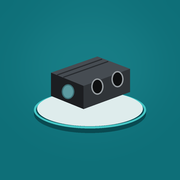
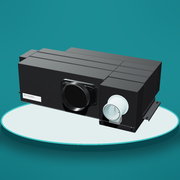
App 封面改用 MD-70LBDN 實際渲染；MD-70LBDN 吊耳改一整排、移除側面小白塊
- App 圖示（含 iPhone 主畫面、Android 自適應圖示）與分享預覽圖（1200×630）改用 MD-70LBDN 3D 渲染
- 加入分享預覽 meta（og:image），傳連結時會顯示封面
- MD-70LBDN 風機側吊耳改為一整條連續吊架（附長圓孔），比照產品照
- 移除風機側端面的小白塊

Claude-Session: https://claude.ai/code/session_016bDArbNA9F9dxaqhLt5yQD

diff --git a/sw.js b/sw.js
@@ -1,6 +1,6 @@
 /* 米多力展示台 service worker — app shell cached on install, CDN (three.js / fonts) cached on first use, works offline afterwards. */
-const VERSION='medole-showroom-f33648478e';
-const SHELL=["./", "data.js", "engine.js", "families.js", "icons/apple-touch-icon.png", "icons/icon-192.png", "icons/icon-32.png", "icons/icon-512.png", "icons/icon-maskable-512.png", "index.html", "manifest.webmanifest", "models/md-100lb.js", "models/md-130lb.js", "models/md-140lb.js", "models/md-210lb.js", "models/md-250lb.js", "models/md-300lbd.js", "models/md-30lb.js", "models/md-35lb-tp.js", "models/md-40lbd.js", "models/md-70lbad.js", "models/md-70lbd.js", "models/md-70lbdn.js", "models/md-a40lb.js"];
+const VERSION='medole-showroom-fbcddf52ca';
+const SHELL=["./", "data.js", "engine.js", "families.js", "icons/apple-touch-icon.png", "icons/cover.png", "icons/icon-192.png", "icons/icon-32.png", "icons/icon-512.png", "icons/icon-maskable-512.png", "index.html", "manifest.webmanifest", "models/md-100lb.js", "models/md-130lb.js", "models/md-140lb.js", "models/md-210lb.js", "models/md-250lb.js", "models/md-300lbd.js", "models/md-30lb.js", "models/md-35lb-tp.js", "models/md-40lbd.js", "models/md-70lbad.js", "models/md-70lbd.js", "models/md-70lbdn.js", "models/md-a40lb.js"];
 const CDN=/^https:\/\/(cdnjs\.cloudflare\.com|fonts\.googleapis\.com|fonts\.gstatic\.com)\//;
 self.addEventListener('install',e=>{e.waitUntil(caches.open(VERSION).then(c=>c.addAll(SHELL.map(u=>new Request(u,{cache:'reload'})))).then(()=>self.skipWaiting()));});
 self.addEventListener('activate',e=>{e.waitUntil(caches.keys().then(keys=>Promise.all(keys.filter(k=>k.startsWith('medole-showroom-')&&k!==VERSION).map(k=>caches.delete(k)))).then(()=>self.clients.claim()));});

diff --git a/models/md-70lbdn.js b/models/md-70lbdn.js
@@ -25,8 +25,12 @@
     K.box(29.5,96,9.5,310,227.7,406.5,m.body2,3);
     K.box(0,29.5,17,120,227.7,291.7,m.body);
 
-    /* hanger brackets: holes 982 x 250, ear top at h=45 */
-    [189,439].forEach(d=>{K.bracket(B.x0,43.8,d,51,45,29);K.bracket(B.x1,1072,d,51,45,29);K.hole(70,d,45,6);K.hole(1052,d,45,6);});
+    /* hanger brackets: holes 982 x 250, ear top at h=45.
+       Fan-section end: one continuous bracket along the depth with slotted holes (product photo);
+       control-box end: two separate ears (the control box fills the middle of that end). */
+    [189,439].forEach(d=>{K.bracket(B.x0,43.8,d,51,45,29);K.hole(70,d,45,6);});
+    {const da=B.d0+6,db=FN.d1-6;K.bracket(B.x1,1072,(da+db)/2,db-da,45,29);
+     [189,439].forEach(d=>K.box(1052-5.5,1052+5.5,41.6,45.5,d-14,d+14,m.hole));}   // 長圓孔
 
     /* drain head (back face) */
     K.rod('z',14,130,80,148,28,m.drain,32);K.disc('z',10,130,80,133.7,m.hole);
@@ -50,8 +54,6 @@
      const act=K.box(x-34.5,x+34.5,83.5,124.5,618,668,m.clear);act.castShadow=false;
      K.box(x-22,x+22,91.5,118.5,628,658,m.tealDark);}
 
-    /* electrical connector on the fan-section end (photo) */
-    K.box(B.x1,B.x1+14,215,249,FN.d1-48,FN.d1-22,m.grey);
 
     /* ---------- supply side (front, outlet face d=527) ---------- */
     let sTip=621,sTag=[593.5,300];

diff --git a/index.html b/index.html
@@ -12,6 +12,12 @@
 <meta name="mobile-web-app-capable" content="yes">
 <meta name="apple-mobile-web-app-status-bar-style" content="black-translucent">
 <meta name="apple-mobile-web-app-title" content="米多力展示台">
+<meta property="og:title" content="米多力除濕機 3D 展示台">
+<meta property="og:description" content="13 款機型・出回風組合・濾網抽取">
+<meta property="og:image" content="https://evan20020928.github.io/medole-showroom/icons/cover.png">
+<meta property="og:image:width" content="1200">
+<meta property="og:image:height" content="630">
+<meta name="twitter:card" content="summary_large_image">
 <style>:root{color-scheme:light;padding-top:env(safe-area-inset-top,0px);padding-bottom:env(safe-area-inset-bottom,0px)}html,body{margin:0}body{font:14px/1.4 system-ui,sans-serif;-webkit-text-size-adjust:100%;overscroll-behavior:none;-webkit-user-select:none;user-select:none}.share code,.spec{-webkit-user-select:text;user-select:text}img{max-width:100%}[hidden]{display:none!important}</style>
 <title>米多力除濕機 3D 展示台</title>
 <link rel="preconnect" href="https://fonts.googleapis.com">
